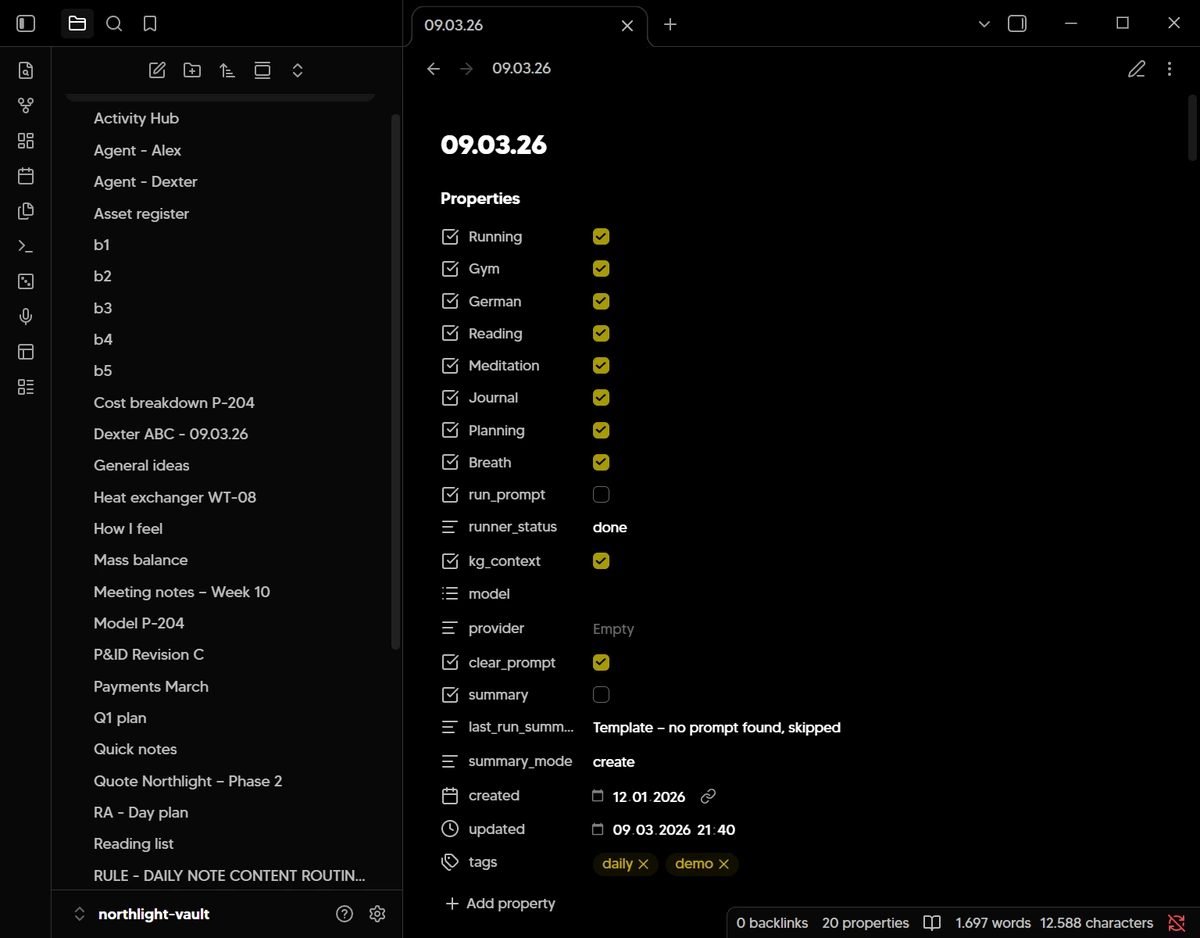
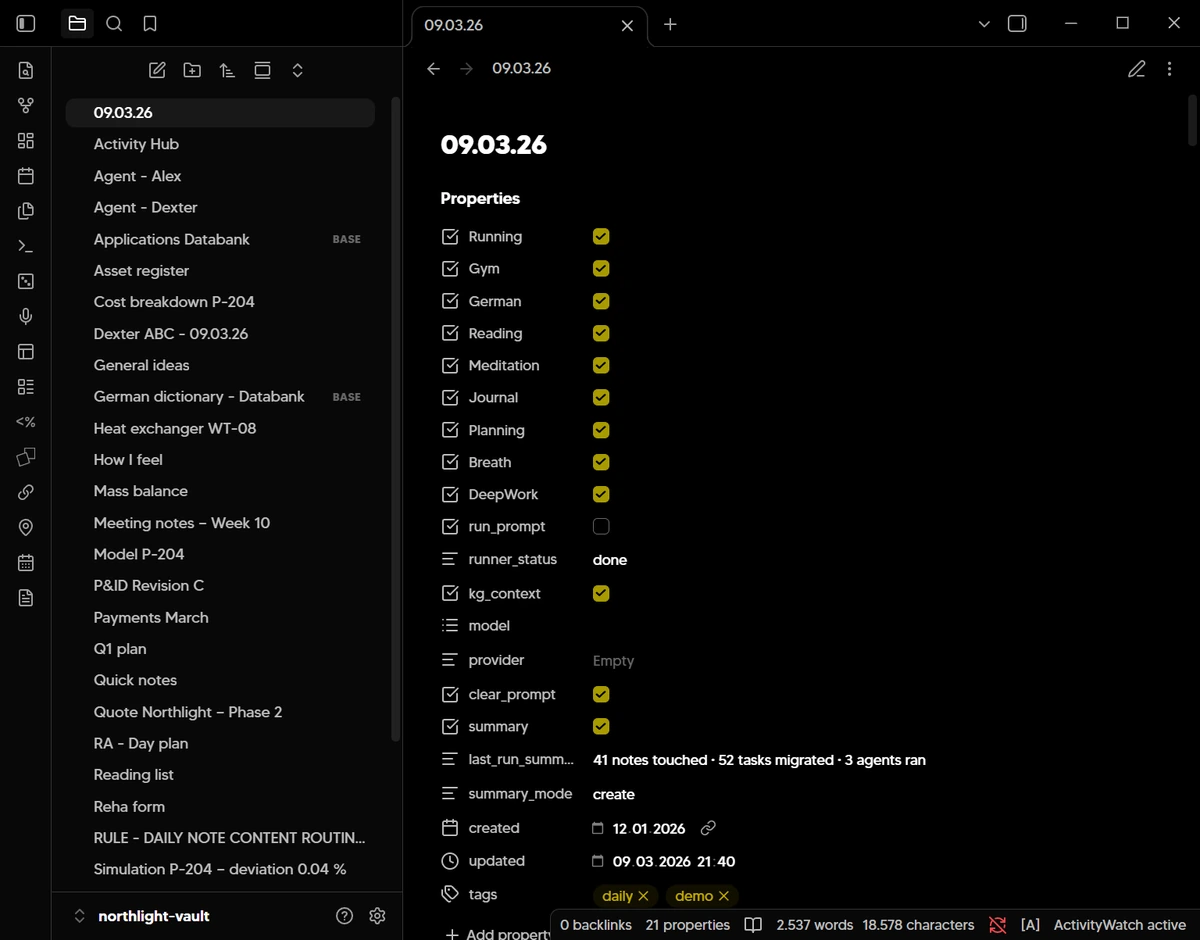
Agent Shop: complete demo vault, 13 real Obsidian screenshots

diff --git a/content/Projekte/Agent Shop.md b/content/Projekte/Agent Shop.md
@@ -50,17 +50,22 @@ Everything on this page runs on this machine **before** it is offered: **107 age
 
 ## What it looks like — screenshots from the app
 
-Not mock-ups. Every image below was captured from **Obsidian itself**, with the theme and settings I use every day (*Vanilla AMOLED*, gold accent, MADE TOMMY). The data is fictional: a made-up company, **Northlight Engineering**, and one made-up day, **Monday 09.03.26** — the structure is the real one.
+Not mock-ups. Every image below was captured from **Obsidian itself**, with the theme and settings I use every day (*Vanilla AMOLED*, gold accent, MADE TOMMY). The data is fictional: a made-up company, **Northlight Engineering**, and one made-up day, **Monday 09.03.26** — the structure, the sections and the agents writing into them are the real ones.
 
 <div class="ra-shots">
 <figure class="wide"><img loading="lazy" src="/static/posters/northlight/window.webp" alt="Obsidian window with the daily note"><figcaption>The daily note as it opens: file tree on the left, the note in reading view, backlinks on the right.</figcaption></figure>
-<figure><img loading="lazy" src="/static/posters/northlight/w-01.webp" alt="Properties and prompt block"><figcaption>Top of the note — properties, the three note links, and the prompt block that turns one line into a task.</figcaption></figure>
-<figure><img loading="lazy" src="/static/posters/northlight/w-02.webp" alt="Events and migration report"><figcaption>Events the agents wrote into the day, plus the migration report and the task-index pointer.</figcaption></figure>
-<figure><img loading="lazy" src="/static/posters/northlight/w-03.webp" alt="Day plan"><figcaption>The day plan: fixed appointments from the calendar first, then the rules the plan obeys.</figcaption></figure>
-<figure><img loading="lazy" src="/static/posters/northlight/w-04.webp" alt="Hour by hour table"><figcaption>Hour by hour, with the notes the activity tracker actually saw — empty hours stay empty.</figcaption></figure>
-<figure><img loading="lazy" src="/static/posters/northlight/w-07.webp" alt="PC workflow metrics"><figcaption>PC Workflow — screen time, focus, per-app time, and the exact files edited in each folder.</figcaption></figure>
-<figure><img loading="lazy" src="/static/posters/northlight/w-08.webp" alt="Comments and day summary"><figcaption>Comments and the day summary the agent writes at the end of the day.</figcaption></figure>
-<figure><img loading="lazy" src="/static/posters/northlight/w-10.webp" alt="Metadata insight and 30-minute grid"><figcaption>Metadata insight and the 30-minute grid: every half hour of the day, one line each.</figcaption></figure>
+<figure><img loading="lazy" src="/static/posters/northlight/d-01-top.webp" alt="Properties and prompt block"><figcaption>Top of the note — 21 properties the agents read, the note links, the two databanks and the prompt block that turns one line into a task.</figcaption></figure>
+<figure><img loading="lazy" src="/static/posters/northlight/d-02-events.webp" alt="Events and migration report"><figcaption>24 events the agents wrote into the day — run, meditation, work blocks, German, gym — plus the Dexter migration report.</figcaption></figure>
+<figure><img loading="lazy" src="/static/posters/northlight/d-03-dayplan.webp" alt="Day plan"><figcaption>The day plan: fixed appointments from the calendar first, then the rules the plan obeys. Dictation beats inference.</figcaption></figure>
+<figure><img loading="lazy" src="/static/posters/northlight/d-04-hourly.webp" alt="Hour by hour table"><figcaption>Hour by hour, morning to evening, with the notes the activity tracker actually saw — empty hours stay empty.</figcaption></figure>
+<figure><img loading="lazy" src="/static/posters/northlight/d-05-tasks.webp" alt="Tasks table and history"><figcaption>Tasks with IDs, group, due date and state — plus the change history of the plan over the day.</figcaption></figure>
+<figure><img loading="lazy" src="/static/posters/northlight/d-06-pcworkflow.webp" alt="PC workflow metrics"><figcaption>PC Workflow — screen time 7h 58m, focus 81 %, per-app time, and the exact files edited in every folder.</figcaption></figure>
+<figure><img loading="lazy" src="/static/posters/northlight/d-07-money.webp" alt="Money and comments"><figcaption>Money — what came in, what went out, what is still open in the quote — followed by the day's comments.</figcaption></figure>
+<figure><img loading="lazy" src="/static/posters/northlight/d-08-journal.webp" alt="Dream, meditation, how I feel"><figcaption>The personal blocks: dream, meditation, how I feel, and the A/B/C the next day starts from.</figcaption></figure>
+<figure><img loading="lazy" src="/static/posters/northlight/d-09-metadata.webp" alt="Metadata insight and 30-minute grid"><figcaption>Metadata insight and the 30-minute grid: every half hour of the day, one line each, with the track that was playing.</figcaption></figure>
+<figure><img loading="lazy" src="/static/posters/northlight/d-10-taskindex.webp" alt="Task index note"><figcaption>The task index is its own note — today and this week, grouped, every task with an ID and a due date.</figcaption></figure>
+<figure><img loading="lazy" src="/static/posters/northlight/d-11-taskindex2.webp" alt="Task index — closed today"><figcaption>Same task index further down: closed today and the later bucket, so nothing disappears without a trace.</figcaption></figure>
+<figure><img loading="lazy" src="/static/posters/northlight/d-12-tracking.webp" alt="Tracking note"><figcaption>Tracking: 14 days of habits and the weekly totals, written by the agent — streaks without a spreadsheet.</figcaption></figure>
 </div>
 
 <style>
@@ -73,7 +78,7 @@ Not mock-ups. Every image below was captured from **Obsidian itself**, with the 
 @media all and (max-width:760px){ .ra-shots{grid-template-columns:1fr} }
 </style>
 
-What the screenshots cover: properties and the prompt block · events and the agent migration report · the day plan and its rules · the hour-by-hour tables · PC Workflow metrics · comments and the day summary · the 30-minute grid.
+What the screenshots cover: 21 properties and the prompt block · 24 agent-written events · the migration report · the day plan and its rules · the hour-by-hour tables · the task table and plan history · PC Workflow metrics · money and comments · dream, meditation and how I feel · the 30-minute grid · the task index · the tracking table.
 
 Want a second opinion on your own vault? Send me one note you write by hand — I'll show you what the same view looks like after the agents touch it.
 
